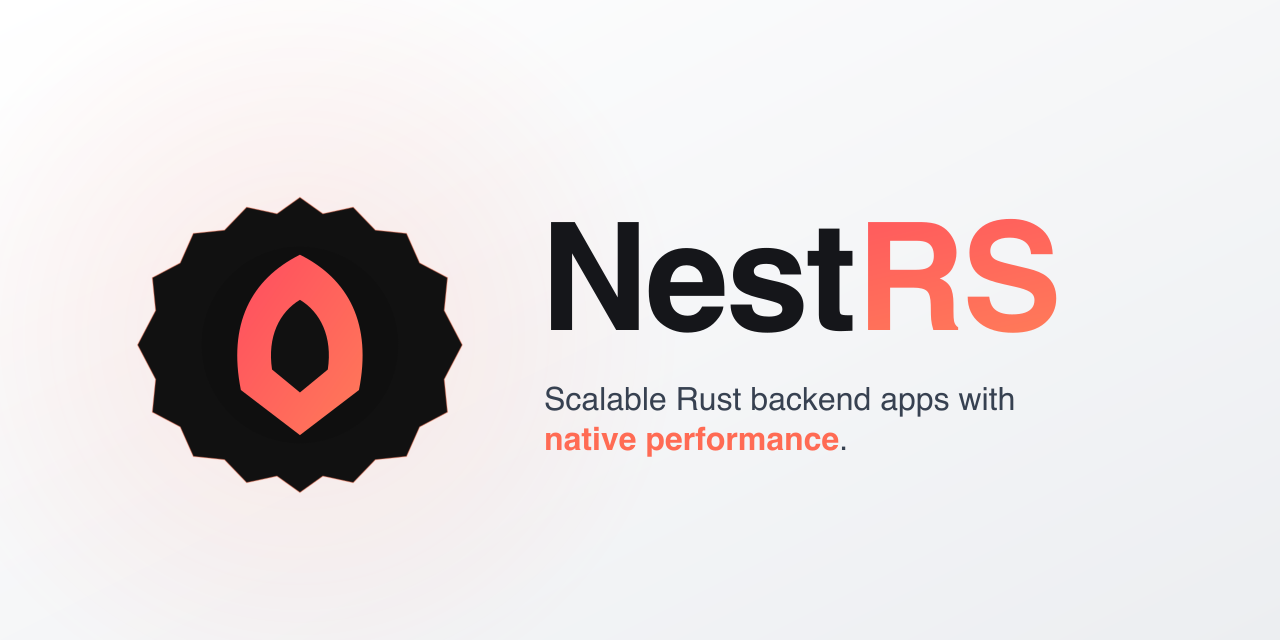
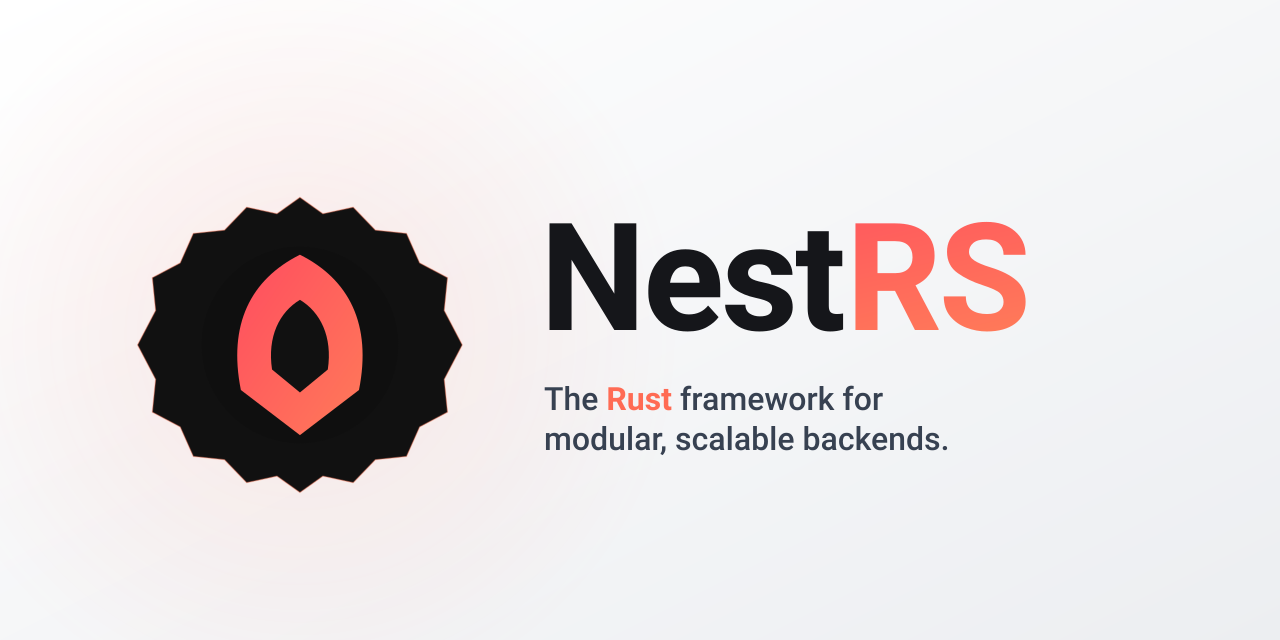
chore(brand): the tagline says what NestRS is, not what it resembles

Changed region(s): [[0.5312, 0.3438, 0.8438, 0.5312], [0.4062, 0.5938, 0.8125, 0.7188], [0.4375, 0.3438, 0.5, 0.5]]

diff --git a/crates/nest-rs-cli/src/cli.rs b/crates/nest-rs-cli/src/cli.rs
@@ -6,7 +6,7 @@ use crate::commands;
 use crate::error::CliResult;
 use crate::naming::{Names, Transport};
 
-const PROJECT_TAGLINE: &str = "NestJS architecture, Rust performance.";
+const PROJECT_TAGLINE: &str = "The Rust framework for modular, scalable backends.";
 
 const AFTER_HELP: &str = concat!(
     "Documentation: ",
@@ -34,8 +34,8 @@ pub fn print_about() {
 #[command(
     name = "nestrs",
     about = PROJECT_TAGLINE,
-    long_about = "NestJS architecture, Rust performance — production-grade Rust backends \
-                  without fighting the Rust ecosystem.\n\n\
+    long_about = "The Rust framework for modular, scalable backends — you write the \
+                  business logic, it carries the rest.\n\n\
                   Scaffolds NestRS projects, features, transport adapters, and toolchain checks.",
     // `--version` / `-V` are intercepted in `main` so they print exactly what
     // `nestrs version` prints, rather than clap's `<bin> <ver>` rendering.

diff --git a/README.md b/README.md
@@ -3,8 +3,8 @@
 </p>
 
 <p align="center">
-  <strong>NestJS architecture, Rust performance.</strong><br>
-  Build production-grade Rust backends without fighting the Rust ecosystem — modules, decorators and dependency injection over a native core.<br>
+  <strong>The Rust framework for modular, scalable backends.</strong><br>
+  You write the business logic; the framework carries the rest — modules, decorators and dependency injection over a native core.<br>
   <sub>~25× less memory · ~23× faster cold starts · ×4 the throughput of NestJS, core for core — measured on a byte-identical contract, <a href="bench/">reproducible from the repo</a>.</sub>
 </p>
 

diff --git a/crates/nest-rs/README.md b/crates/nest-rs/README.md
@@ -1,6 +1,6 @@
 # nest-rs
 
-**NestJS architecture, Rust performance.** Build production-grade Rust backends without fighting the Rust ecosystem: modules, decorators and dependency injection carry authentication, tenant isolation, field masking and transactions, and the wiring is verified at boot.
+**The Rust framework for modular, scalable backends.** You write the business logic; modules, decorators and dependency injection carry authentication, tenant isolation, field masking and transactions, and the wiring is verified at boot.
 
 NestRS framework umbrella — re-exports the core and the surface crates an app reaches for, with a `prelude` for the common case.
 
